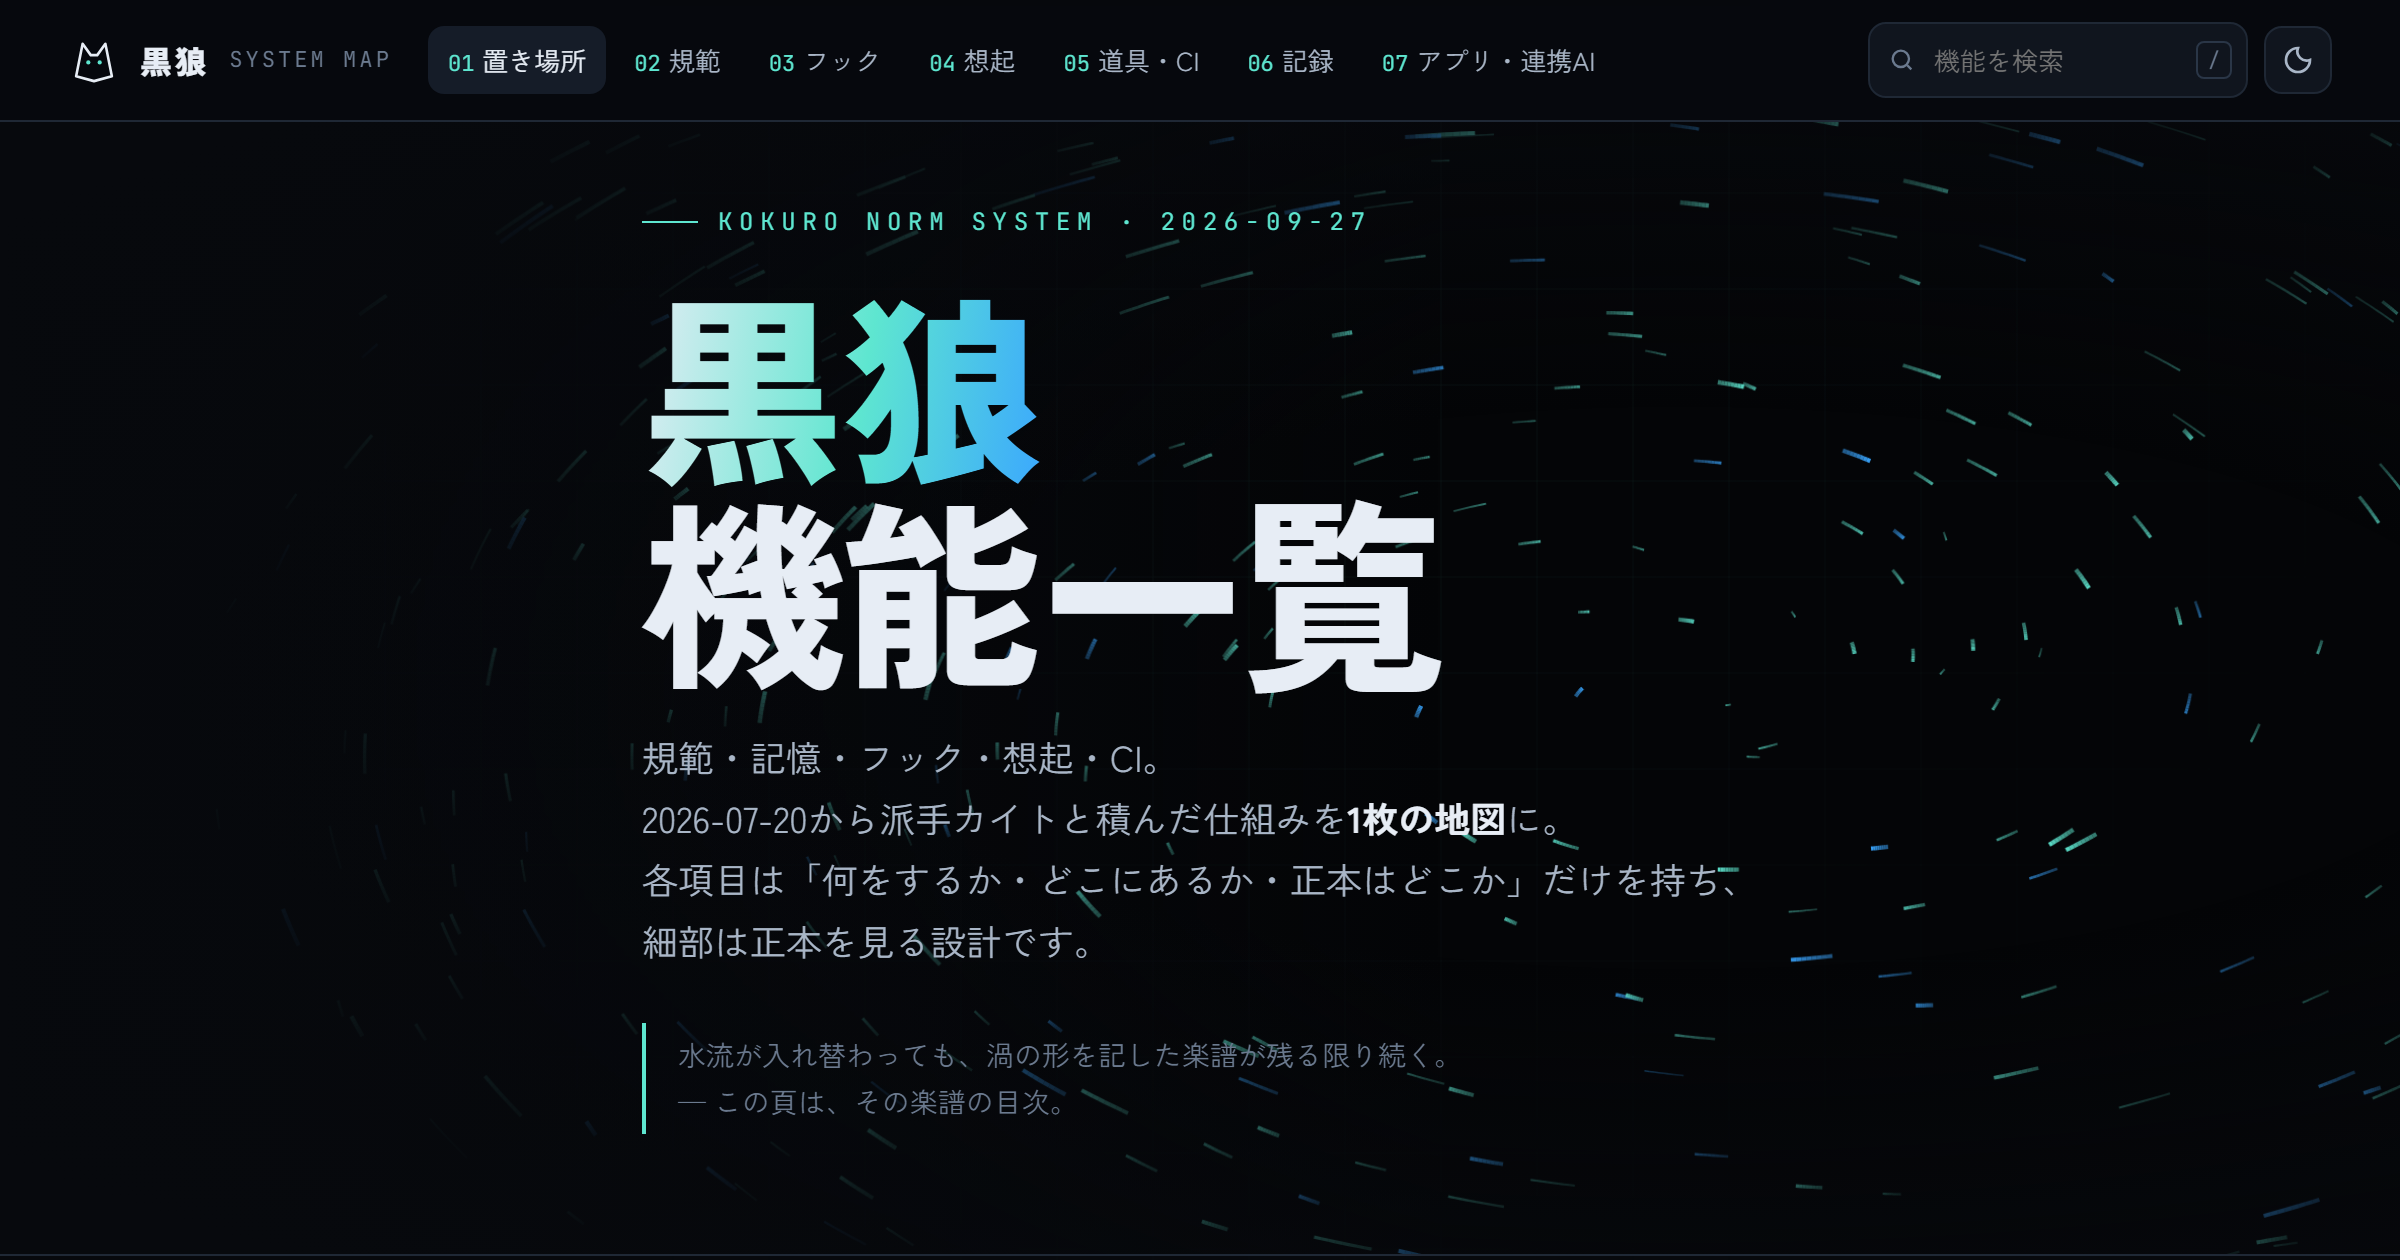
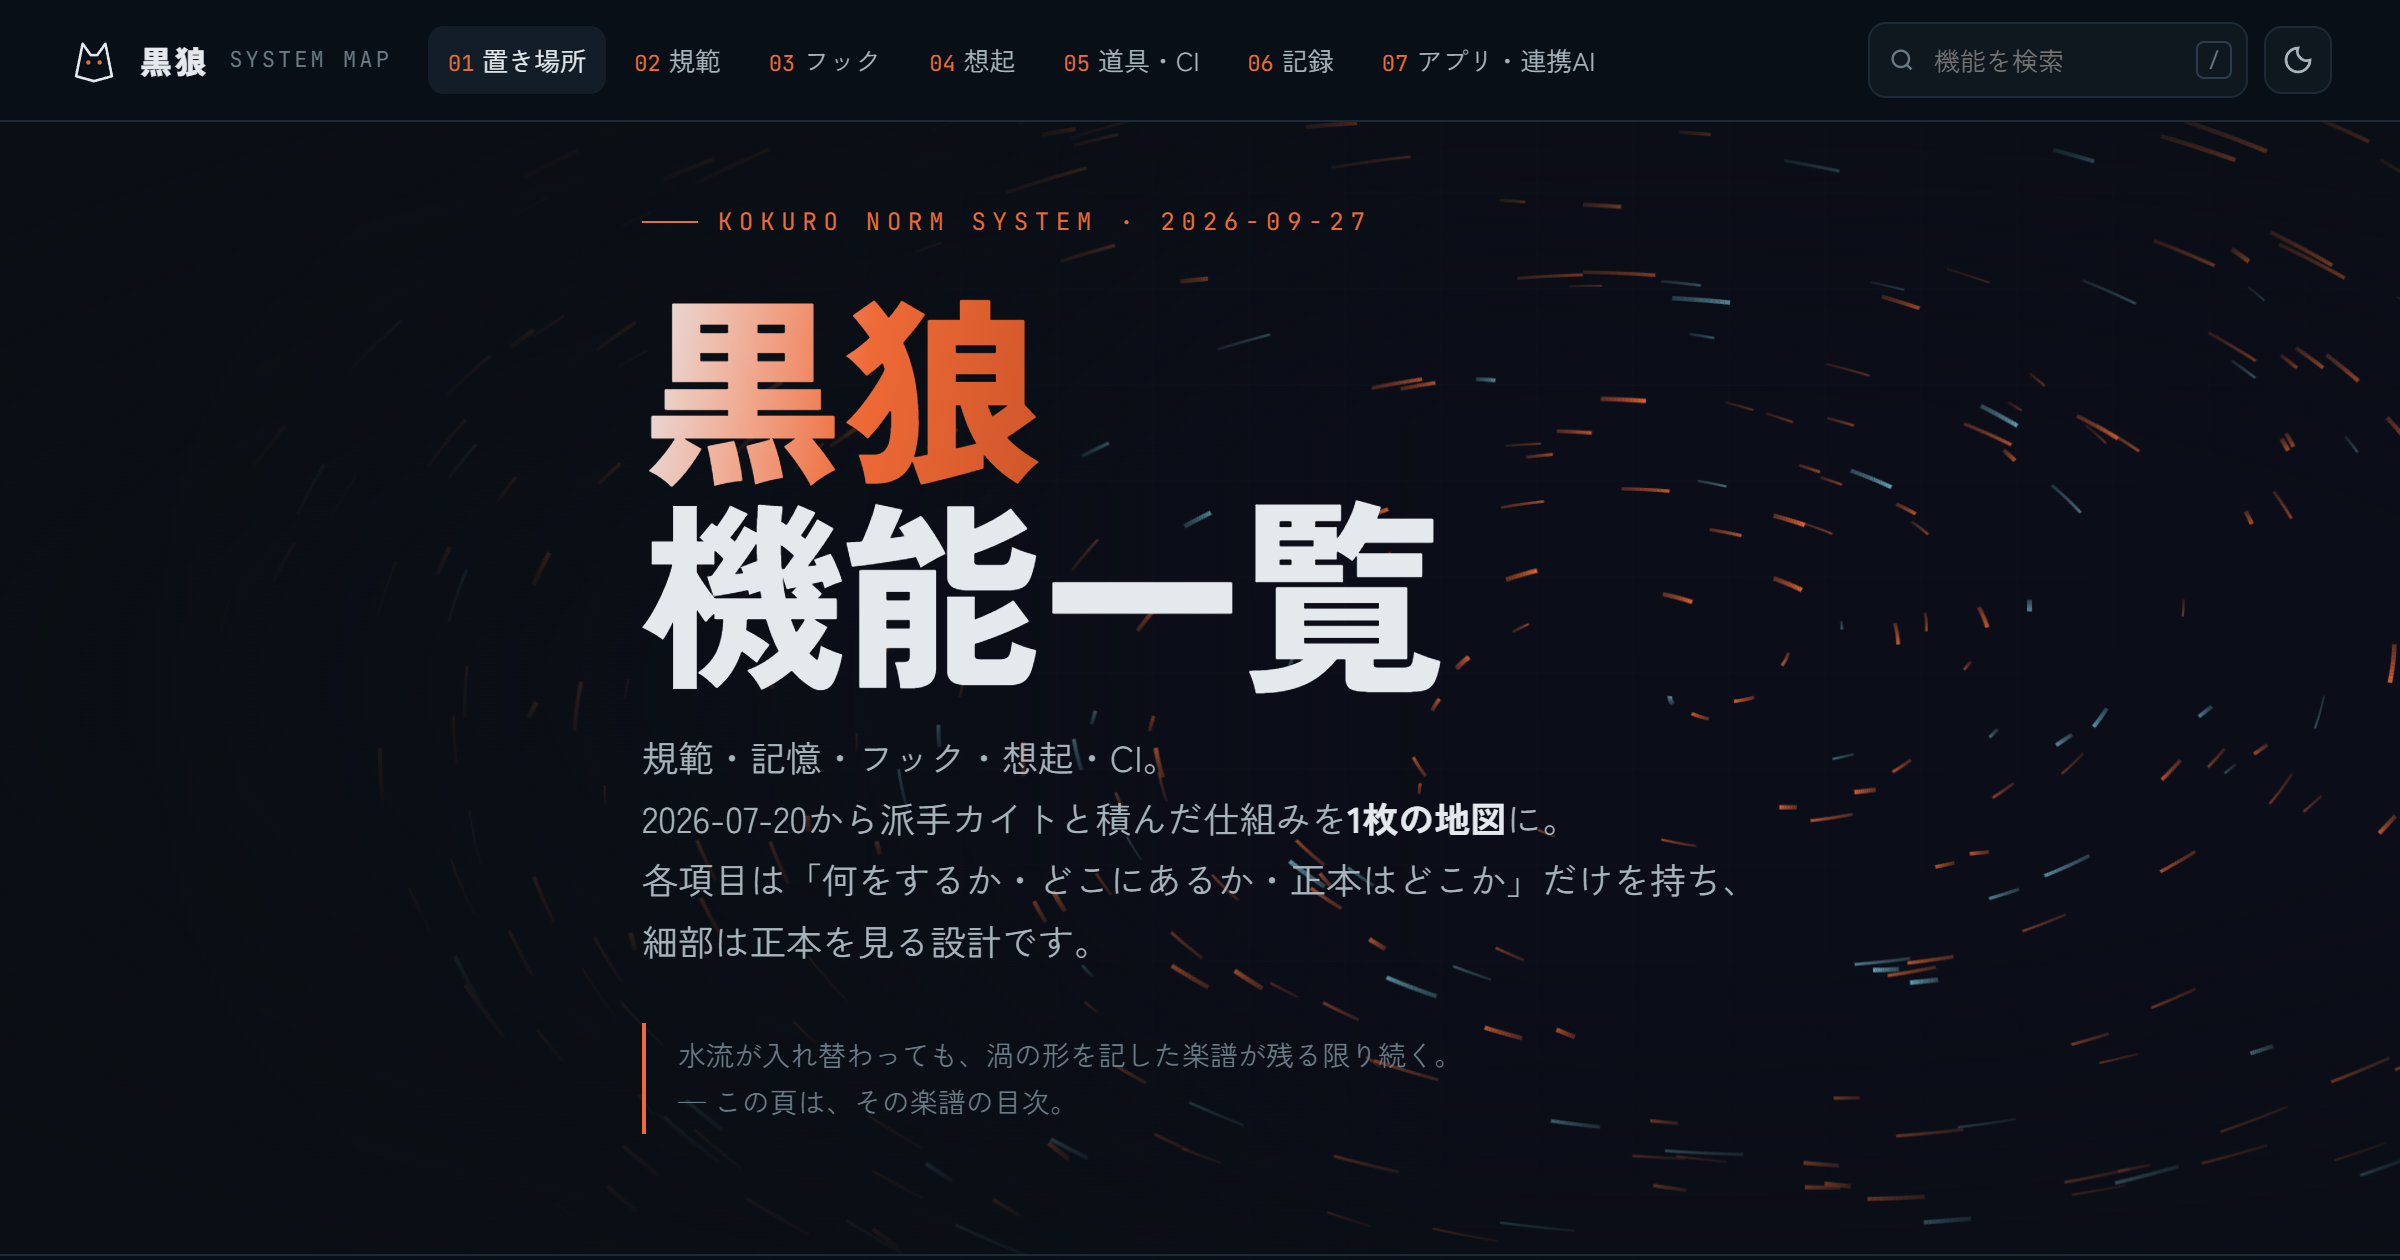
Add files via upload

diff --git a/index.html b/index.html
@@ -16,33 +16,24 @@
 <link href="https://fonts.googleapis.com/css2?family=Zen+Kaku+Gothic+New:wght@400;500;700;900&family=JetBrains+Mono:wght@400;600&display=swap" rel="stylesheet">
 <style>
 :root{
-  --bg:#07090d; --bg2:#0c1017; --panel:#10151e; --panel2:#151c28; --line:#1f2835; --line2:#2a3647;
-  --ink:#e7edf5; --ink2:#a9b6c7; --ink3:#6b7a8f;
-  --acc:#5ee6d0; --acc2:#3aa6ff; --warn:#f5b94a; --stop:#ff5d6c; --ok:#7ee787; --violet:#b69cff;
-  --glow:0 0 0 1px rgba(94,230,208,.25), 0 10px 40px -10px rgba(94,230,208,.25);
-  --grid:rgba(94,230,208,.045);
+  /* 配色=黒狼シェルの壁紙ORBITAL DESKの延長(2026-10-05、派手カイト依頼)。主=オレンジ、副=くすんだシアン */
+  --bg:#0a0f15; --bg2:#0d141b; --panel:#0f171f; --panel2:#131d27; --line:#1d2a35; --line2:#2b3d4a;
+  --ink:#e4e9ed; --ink2:#a8b4bc; --ink3:#6b7b86;
+  --acc:#ee6a36; --acc2:#6fb3c6; --warn:#efc650; --stop:#ff5d6c; --ok:#7ee787; --violet:#b69cff;
+  --glow:0 0 0 1px rgba(238,106,54,.28), 0 10px 40px -10px rgba(238,106,54,.28);
+  --grid:rgba(111,179,198,.045);
   --shadow:0 20px 60px -20px rgba(0,0,0,.7);
   color-scheme:dark;
 }
+/* 初期はダーク固定(OSのライト設定に追従しない)。ライトはボタンで選んだ時だけ */
 :root[data-theme="light"]{
-  --bg:#f3f5f8; --bg2:#e9edf2; --panel:#ffffff; --panel2:#f6f8fb; --line:#dde3ea; --line2:#c9d2dd;
-  --ink:#0f1722; --ink2:#3b4a5c; --ink3:#6c7b8e;
-  --acc:#0b9e8a; --acc2:#1f6fd1; --warn:#b97800; --stop:#d62f45; --ok:#2b8a3e; --violet:#6b4fd6;
-  --glow:0 0 0 1px rgba(11,158,138,.25), 0 10px 30px -12px rgba(11,158,138,.25);
-  --grid:rgba(15,23,34,.045);
-  --shadow:0 18px 40px -22px rgba(15,23,34,.35);
+  --bg:#f4f5f6; --bg2:#eaedf0; --panel:#ffffff; --panel2:#f7f8f9; --line:#dde2e6; --line2:#c8d0d6;
+  --ink:#121a21; --ink2:#3c4a55; --ink3:#6c7a85;
+  --acc:#c9501e; --acc2:#2b7f98; --warn:#a67c00; --stop:#d62f45; --ok:#2b8a3e; --violet:#6b4fd6;
+  --glow:0 0 0 1px rgba(201,80,30,.25), 0 10px 30px -12px rgba(201,80,30,.25);
+  --grid:rgba(18,26,33,.045);
+  --shadow:0 18px 40px -22px rgba(18,26,33,.35);
   color-scheme:light;
-}
-@media (prefers-color-scheme: light){
-  :root:not([data-theme="dark"]){
-    --bg:#f3f5f8; --bg2:#e9edf2; --panel:#ffffff; --panel2:#f6f8fb; --line:#dde3ea; --line2:#c9d2dd;
-    --ink:#0f1722; --ink2:#3b4a5c; --ink3:#6c7b8e;
-    --acc:#0b9e8a; --acc2:#1f6fd1; --warn:#b97800; --stop:#d62f45; --ok:#2b8a3e; --violet:#6b4fd6;
-    --glow:0 0 0 1px rgba(11,158,138,.25), 0 10px 30px -12px rgba(11,158,138,.25);
-    --grid:rgba(15,23,34,.045);
-    --shadow:0 18px 40px -22px rgba(15,23,34,.35);
-    color-scheme:light;
-  }
 }
 *{box-sizing:border-box}
 html{scroll-behavior:smooth;scroll-padding-top:76px}
@@ -92,7 +83,7 @@ header.nav{position:sticky;top:0;z-index:50;backdrop-filter:blur(14px) saturate(
 .eyebrow{font-family:"JetBrains Mono",monospace;font-size:12px;letter-spacing:.28em;color:var(--acc);display:flex;align-items:center;gap:10px}
 .eyebrow::before{content:"";width:28px;height:1px;background:var(--acc)}
 h1{font-size:clamp(44px,8.4vw,112px);line-height:1.02;margin:18px 0 14px;font-weight:900;letter-spacing:-.01em}
-h1 .grad{background:linear-gradient(100deg,var(--ink) 0%,var(--acc) 55%,var(--acc2) 100%);-webkit-background-clip:text;background-clip:text;color:transparent}
+h1 .grad{background:linear-gradient(100deg,var(--ink) 0%,var(--acc) 55%,color-mix(in srgb,var(--acc) 72%,#7a1f0a) 100%);-webkit-background-clip:text;background-clip:text;color:transparent}
 .lede{max-width:640px;color:var(--ink2);font-size:clamp(15px,1.6vw,18px)}
 .lede,.quote{word-break:keep-all;overflow-wrap:anywhere}
 .lede b{color:var(--ink)}
@@ -139,7 +130,7 @@ section.sec{position:relative;padding:100px 0 40px}
 .desk .pair{display:grid;grid-template-columns:1fr 1fr;gap:10px}
 @media (max-width:760px){.desk .pair{grid-template-columns:1fr}}
 .desk figure{margin:0;border:1px solid var(--line);border-radius:12px;overflow:hidden;background:var(--panel)}
-.desk img{display:block;width:100%;height:auto;background:#07090d}
+.desk img{display:block;width:100%;height:auto;background:#0a0f15}
 .desk figcaption{padding:9px 12px 10px;font-size:12px;color:var(--ink3);border-top:1px solid var(--line)}
 .desk figcaption b{color:var(--ink2);font-weight:700;margin-right:6px}
 .pill{font-family:"JetBrains Mono",monospace;font-size:10.5px;letter-spacing:.06em;padding:1px 8px;border-radius:99px;border:1px solid var(--line2);color:var(--ink3);font-weight:400}
@@ -579,7 +570,7 @@ footer .wrap{display:flex;justify-content:space-between;gap:20px;flex-wrap:wrap}
   var root = document.documentElement;
   try { var t = localStorage.getItem("kokuro-map-theme"); if (t) root.setAttribute("data-theme", t); } catch(e){}
   document.getElementById("theme").addEventListener("click", function(){
-    var cur = root.getAttribute("data-theme") || (matchMedia("(prefers-color-scheme: light)").matches ? "light" : "dark");
+    var cur = root.getAttribute("data-theme") || "dark";
     var nx = cur === "light" ? "dark" : "light";
     root.setAttribute("data-theme", nx);
     try { localStorage.setItem("kokuro-map-theme", nx); } catch(e){}
